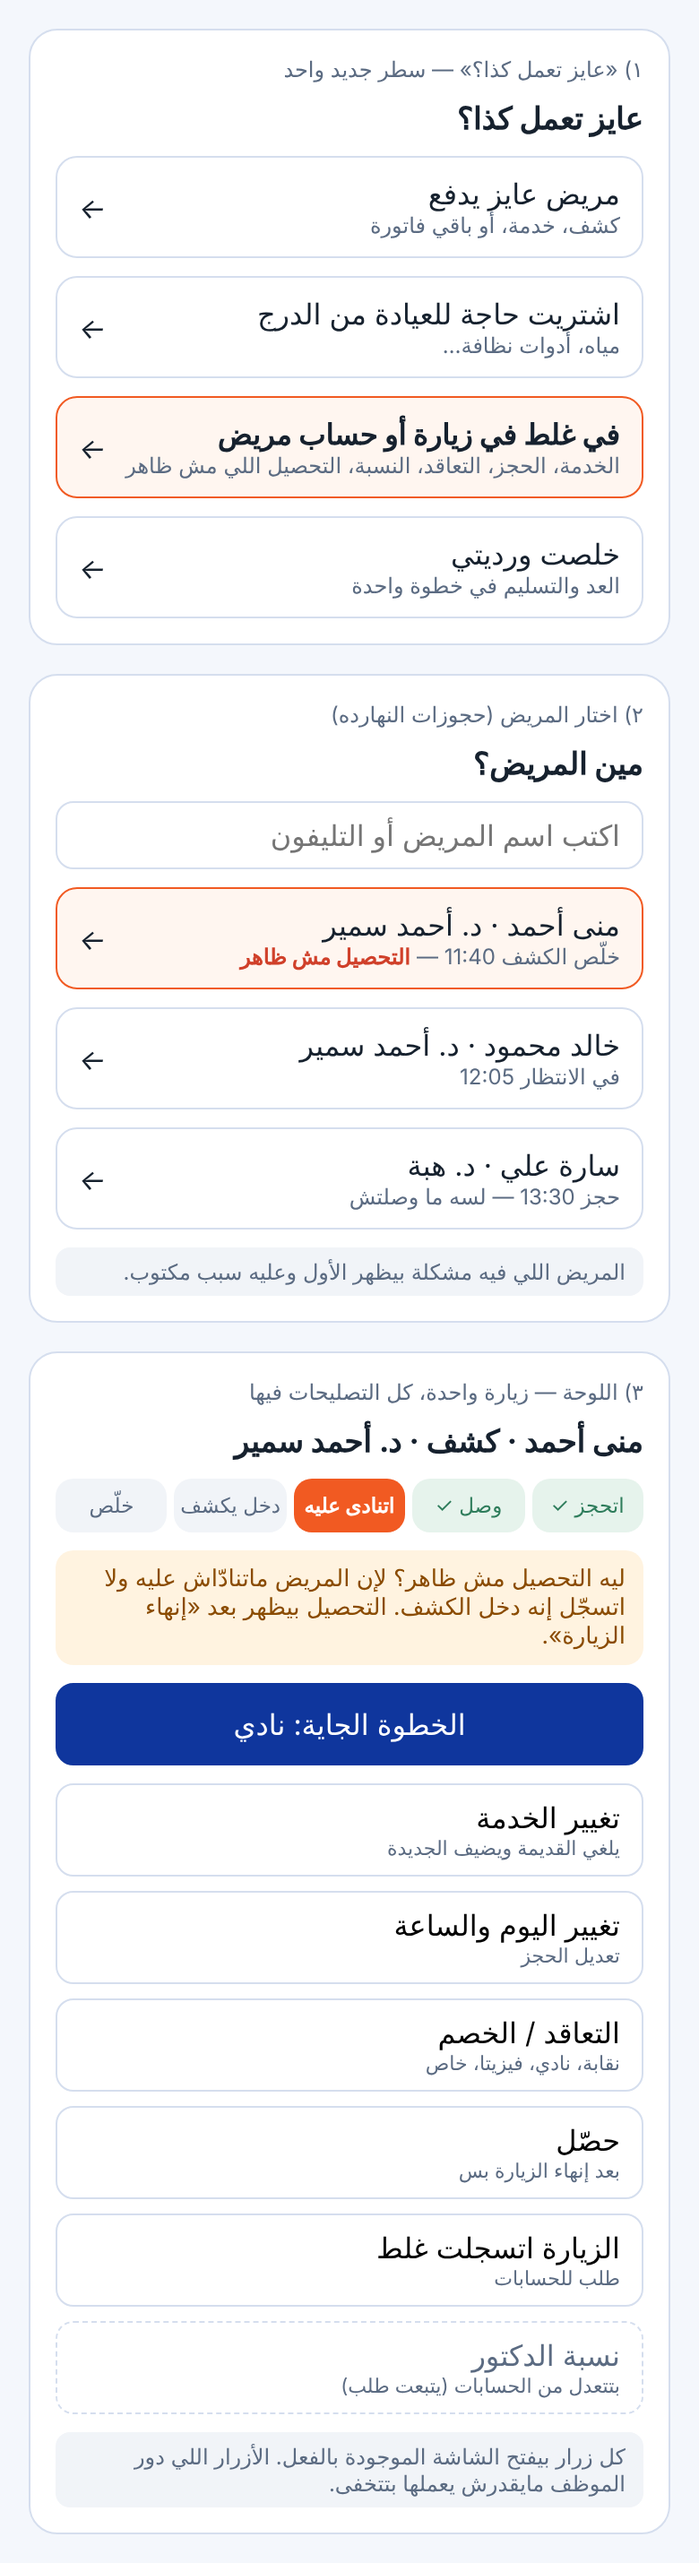
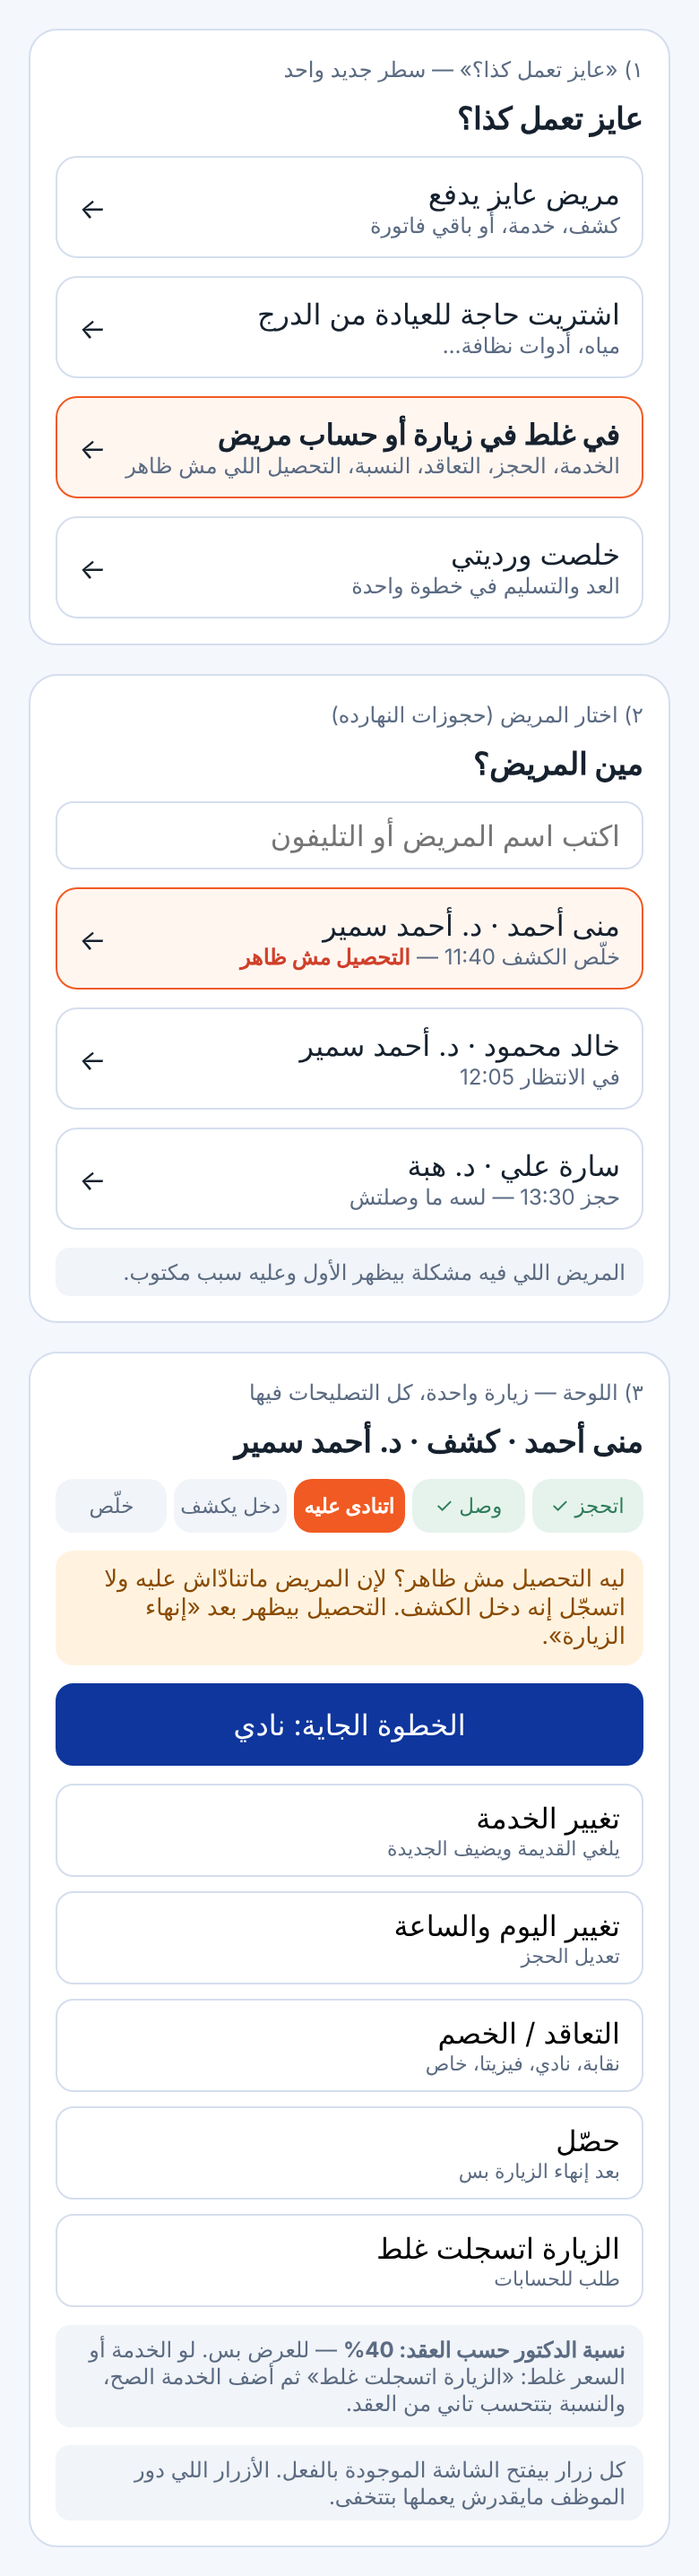
Mockup: doctor share read-only per finance decision

diff --git a/docs/ui-references/mockups/fix-visit-panel.html b/docs/ui-references/mockups/fix-visit-panel.html
@@ -10,7 +10,7 @@
 .st.ok{background:#E6F3EC;color:#2F7D5C}.st.miss{background:#F15A22;color:#fff;font-weight:700}
 .why{font-size:13px;background:#FFF3E0;color:#8a4b00;border-radius:10px;padding:8px 10px}
 .acts{display:grid;grid-template-columns:repeat(2,minmax(0,1fr));gap:8px}.acts .btn{text-align:start}.acts small{display:block;color:#5b6b82;font-size:11px}
-.fin{border-style:dashed;color:#5b6b82}.next{width:100%;padding:12px}
+.fin2{background:#EEF3FF;color:#16212E}.next{width:100%;padding:12px}
 .note{font-size:12px;color:#5b6b82;background:#F1F4F8;border-radius:8px;padding:6px 10px}
 @media(max-width:700px){.wrap{grid-template-columns:minmax(0,1fr)}.acts{grid-template-columns:minmax(0,1fr)}}</style>
 <div class="wrap">
@@ -31,6 +31,6 @@
 <button class="btn pri next">الخطوة الجاية: نادي</button>
 <div class="acts"><button class="btn">تغيير الخدمة<small>يلغي القديمة ويضيف الجديدة</small></button><button class="btn">تغيير اليوم والساعة<small>تعديل الحجز</small></button>
 <button class="btn">التعاقد / الخصم<small>نقابة، نادي، فيزيتا، خاص</small></button><button class="btn">حصّل<small>بعد إنهاء الزيارة بس</small></button>
-<button class="btn">الزيارة اتسجلت غلط<small>طلب للحسابات</small></button><button class="btn fin">نسبة الدكتور<small>بتتعدل من الحسابات (يتبعت طلب)</small></button></div>
+<button class="btn">الزيارة اتسجلت غلط<small>طلب للحسابات</small></button></div><div class="note fin2"><b>نسبة الدكتور حسب العقد: 40%</b> — للعرض بس. لو الخدمة أو السعر غلط: «الزيارة اتسجلت غلط» ثم أضف الخدمة الصح، والنسبة بتتحسب تاني من العقد.</div>
 <div class="note">كل زرار بيفتح الشاشة الموجودة بالفعل. الأزرار اللي دور الموظف مايقدرش يعملها بتتخفى.</div></div>
 </div>
